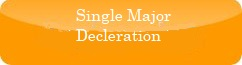
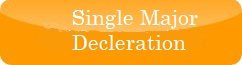
Major Declaration images fixed

Changed region(s): [[0.2893, 0.1231, 0.8388, 0.8]]

diff --git a/SPOT/Actions/ActionDeclareMajor.cpp b/SPOT/Actions/ActionDeclareMajor.cpp
@@ -25,19 +25,19 @@ int	Sci_Flag = 0, Eng_Flag = 0,DoubleMajor_flag=0,SingleMajor_flag=0;
 				pMajorWind = nullptr;
 				break;
 			}
-			pMajorWind->DrawImage("GUI\\Images\\Major_img\\DoubleMajor.jpg", MajorWindWidth / 8, MajorWindWidth / 4 - 10, MajorWindWidth / 4, MajorWindWidth / 4);
-			pMajorWind->DrawImage("GUI\\Images\\Major_img\\DeclareSingleMajor.jpg", MajorWindWidth * (5.0 / 8), 0, MajorWindWidth / 4, MajorWindWidth /1.5);
+			pMajorWind->DrawImage("GUI\\Images\\Major_img\\DeclareDoubleMajor.jpg", MajorWindWidth / 8, 60.5);
+			pMajorWind->DrawImage("GUI\\Images\\Major_img\\DeclareDoubleConcentration.jpg", MajorWindWidth * (5.0 / 8), 60.5);
 			ctInput = pMajorWind->GetMouseClick(x, y);
 			if (ctInput == 1) {
 				pMajorWind->GetMouseCoord(x, y);
 
-			if ((x >= (MajorWindWidth / 8)) && (x <= ((MajorWindWidth / 8) + (MajorWindWidth / 4))) && (y >= (MajorWindWidth / 4 - 10)) && (y <= (MajorWindWidth / 4 - 10) + (MajorWindWidth / 4)))
+			if ((x >= (MajorWindWidth / 8)) && (x <= ((MajorWindWidth / 8) + 200)) && (y >= 0) && (y <= (60.5) + 481))
 			{
 				DoubleMajor_flag = 1;
 				UpdateWind();
 				break;
 			}
-			if ((x >= MajorWindWidth * (5.0 / 8)) && (x <= ((MajorWindWidth * (5.0 / 8)) + (MajorWindWidth / 4))) && (y >= (MajorWindWidth / 4 - 10)) && (y <= (MajorWindWidth / 4 - 10) + (MajorWindWidth / 4)))
+			if ((x >= MajorWindWidth * (5.0 / 8)) && (x <= ((MajorWindWidth * (5.0 / 8)) + (MajorWindWidth / 4))) && (y >=0) && (y <= (60.5) + (MajorWindWidth / 1.5)))
 			{
 				SingleMajor_flag = 1;
 				UpdateWind();
